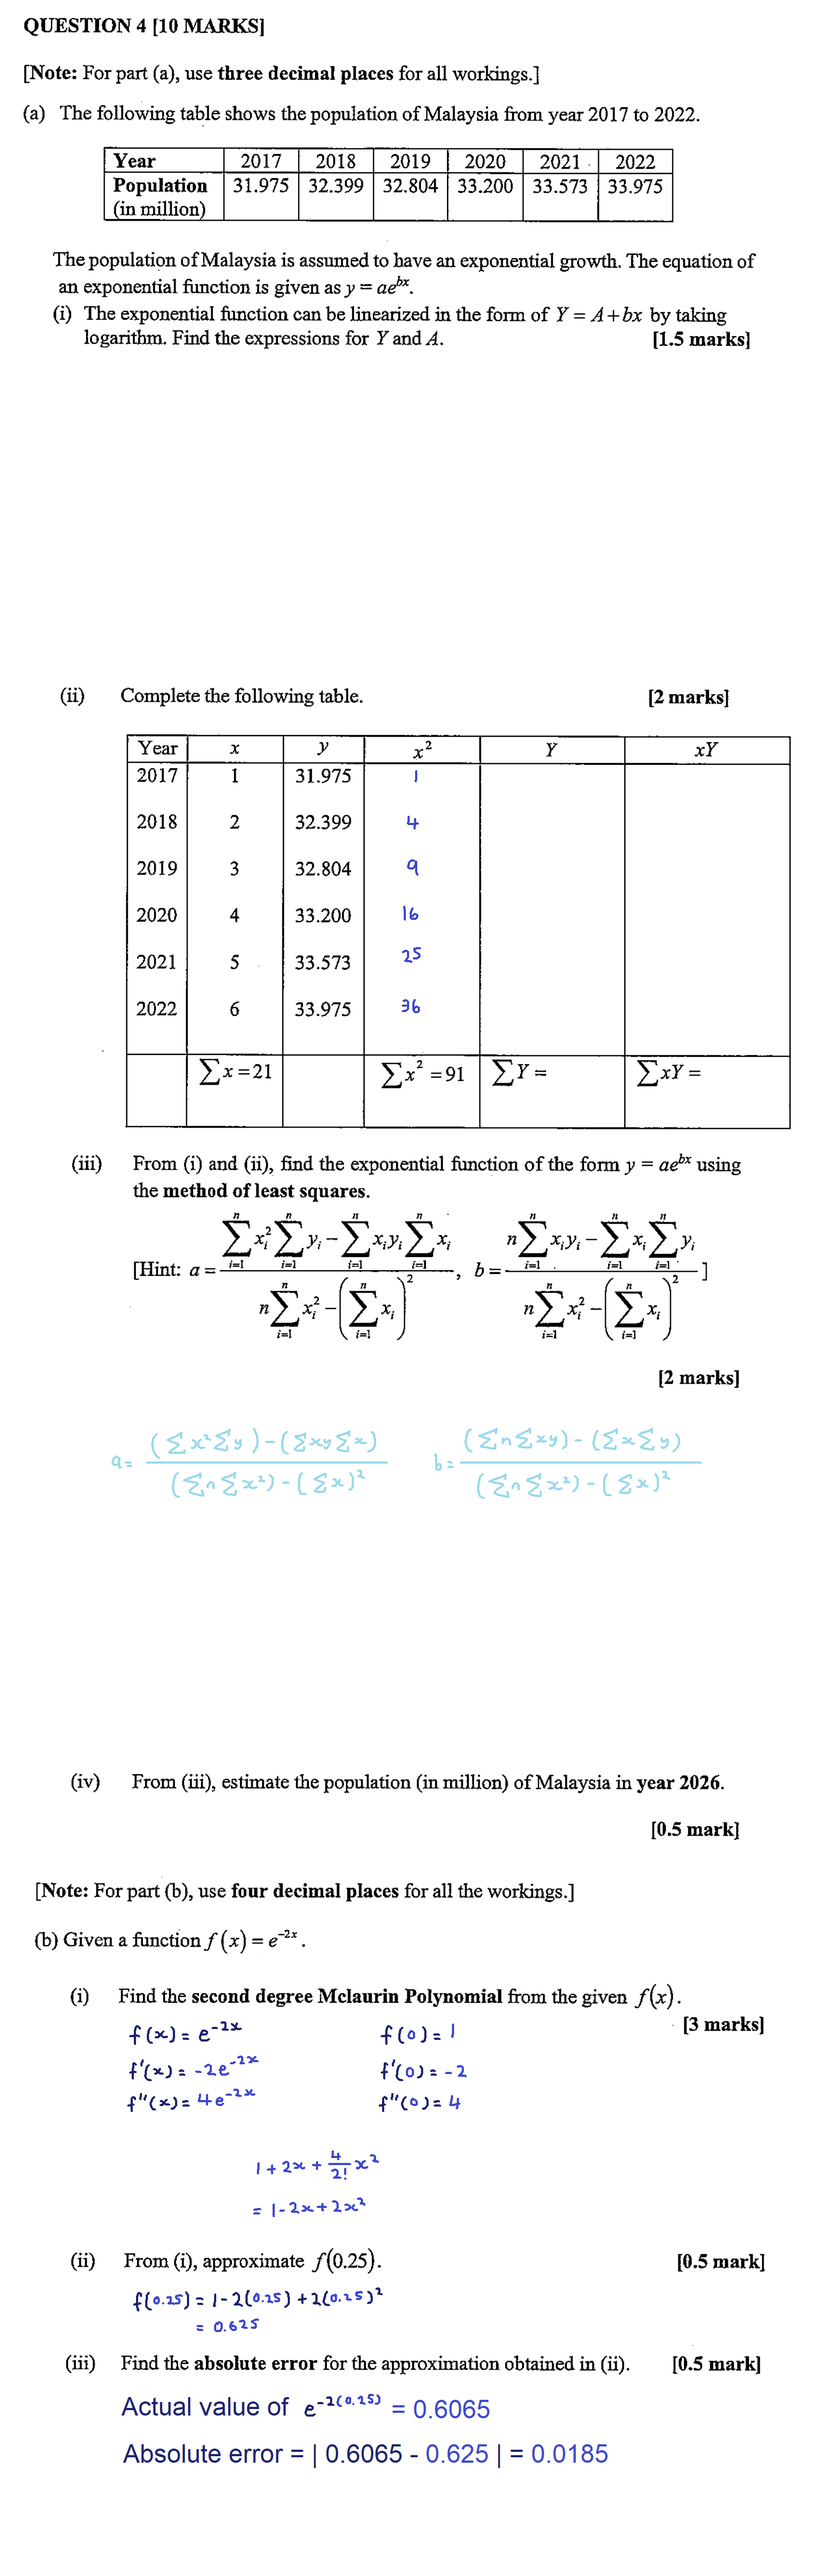
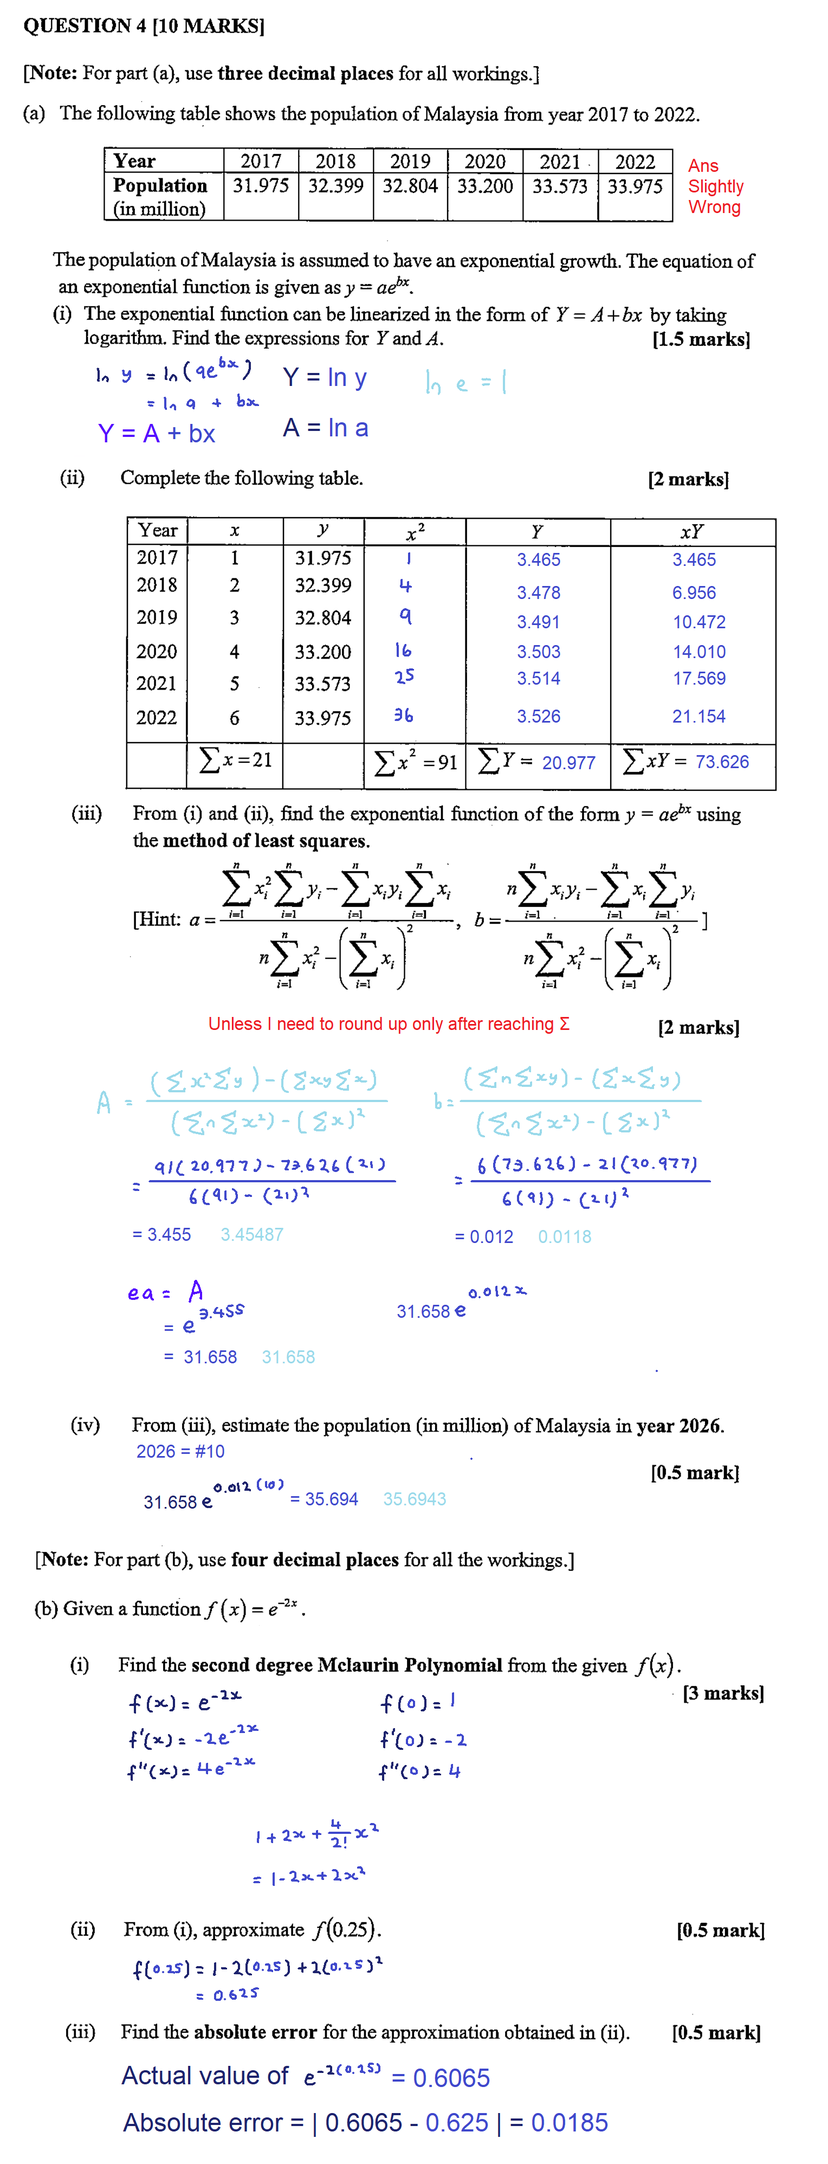
e

diff --git a/TMA 1301/Exams.html b/TMA 1301/Exams.html
@@ -50,7 +50,8 @@
     <img src="Images/Exams/TMA 1301, Exams, image 7.png">
   <h1>Question 4</h1>
     <img src="Images/Exams/TMA 1301, Exams, image 8.png">
-</div>
+</div> <!-- 3.29953372789+3.31781577272+3.33576957634+3.34990408727+3.36729582999+3.38099467434+3.3978584804+3.41114771252 -->
+       <!-- 3.29953372789+6.63563154544+10.007308729+13.3996163491+16.83647915+20.285968046+23.7850093628+27.2891817002 -->
 
 <input type="checkbox" id="accordion3" class="hidecontent"/>
 <label for="accordion3">Trimester 2, 2017/2018 [7 Mar 2018]</label> <!-- https://discord.com/channels/705982671792373841/1025584528695242812/1210576742570528870 -->
@@ -133,7 +134,8 @@
     <img src="Images/Exams/TMA 1301, Exams, image 30.png">
   <h1>Question 4</h1>
     <img src="Images/Exams/TMA 1301, Exams, image 31.png">
-</div>
+</div> <!-- 3.46495434746+3.47812755812+3.49055045917+3.50254987592+3.5137221725+3.52562496004 -->
+       <!-- 3.47812755812+6.95625511625+10.4716513775+14.0101995037+17.5686108625+21.1537497602 -->
 
 </div> <!-- remove this once ur done -->
 

diff --git a/TMA 1301/Notes 5.html b/TMA 1301/Notes 5.html
@@ -58,20 +58,24 @@
     <p>Row Reduction Technique:</p>
     <img src="Images/C5/TMA 1301, N5, image 16.png">
     <p>Alternate way:</p>
-    <img src="Images/C5/TMA 1301, N5, image 17.png">    
+    <img src="Images/C5/TMA 1301, N5, image 17.png">
+  <h1></h1>
+    <img src=""> 
 </div>
 
 <input type="checkbox" id="accordion3" class="hidecontent"/>
 <label for="accordion3">5C</label>
 <div class="content hidecontent">
-  <h1>Jacobi & Gauss-Seidel Methods</h1>
+  <h1>Jacobi Method</h1>
     <img src="Images/C5/TMA 1301, N5, image 21.png">
+  <h1>Gauss-Seidel Method</h1>
+    <img src="Images/C5/TMA 1301, N5, image 22.png">
   <h1>Spectral Radius Theorem</h1>
     <img src="">
   <h1>Is x an Eigenvalue?</h1>
     <img src="">
   <h1>Characteristic Equation & Eigenvalues</h1>
-    <img src="">
+    <img src="Images/C5/TMA 1301, N5, image 25.png">
   <h1>Eigenvalues as basis</h1>
     <img src="">
   <h1>Eigenvector</h1>

diff --git a/TMA 1301/Notes 6.html b/TMA 1301/Notes 6.html
@@ -25,17 +25,24 @@
 <!-- #end of header -->
 <br><br><br>
 <h1>Some tips given out to ease learning.</h1>
-  <h1></h1>
+  <h1>Random Formulas</h1>
+    <img src="Images/C6/TMA 1301, N6, image 1.png">
+  <h1>Solving Regular y = a + bx</h1>
+    <img src="Images/C6/TMA 1301, N6, image 2.png">
+  <h1>Converting y = aeᵇˣ</h1>
+    <img src="Images/C6/TMA 1301, N6, image 3.png">
+  <h1>Converting y = axᵇ into Y = A + bX</h1>
+    <img src="Images/C6/TMA 1301, N6, image 4.png">
+  <h1>Mclaurin</h1>
     <img src="">
-  <h1></h1>
+  <h1>Taylor</h1>
     <img src="">
-  <h1></h1>
+  <h1>Lagrange Coefficient</h1>
     <img src="">
-  <h1></h1>
+  <h1>Newton Polynomial</h1>
     <img src="">
-  <h1></h1>
+  <h1>N Dividen Difference</h1>
     <img src="">
-
 <!-- 
 <h1>Topic . - </h1> 
   <h1></h1>

diff --git a/Update logs.html b/Update logs.html
@@ -981,10 +981,22 @@ th {
         <li>Added Notes 6</li>
         <li>Included navigation buttons below some newer notes</li>
         <li>Edited Exam image: 11</li>
-        <li>Added N5 images: 16, 17</li>
+        <li>Added N5 image: 16</li>
         <li>Edited N5 image: 1</li>
         <li>Edited C5 image: 24</li>
         <li>Split C5 image 24 into 24 & 24b</li>
+      </ul>
+    </td>
+  </tr>
+  <tr>
+    <td></td>
+    <td> 
+      Further work on TMA 1301:
+      <ul>
+        <li>Edited C5 images: 24, 24b</li>
+        <li>Added N5 image: 17, 22</li>
+        <li>Added N6 images: 2, 3, 4</li>
+        <li>Edited Exam images: 8, 31</li>
       </ul>
     </td>
   </tr>

diff --git a/TMA 1301/Module 5.html b/TMA 1301/Module 5.html
@@ -148,8 +148,7 @@
 
 		<input type="checkbox" id="accordionx3" class="hidecontent"/>
 		<label for="accordionx3">Tutorial 5C</label>
-		<div class="content hidecontent">	
-		<small>Tables provided by Mohd_Farhan</small> <!-- ill do my own tables soon tm -->			
+		<div class="content hidecontent">			
 		<h1>Question 1</h1> <!-- https://discord.com/channels/705982671792373841/1025584528695242812/1214596524173168660 -->
 			<img src="Images/C5/TMA 1301, C5, image 22.png">
 		<h1>Question 2</h1>
